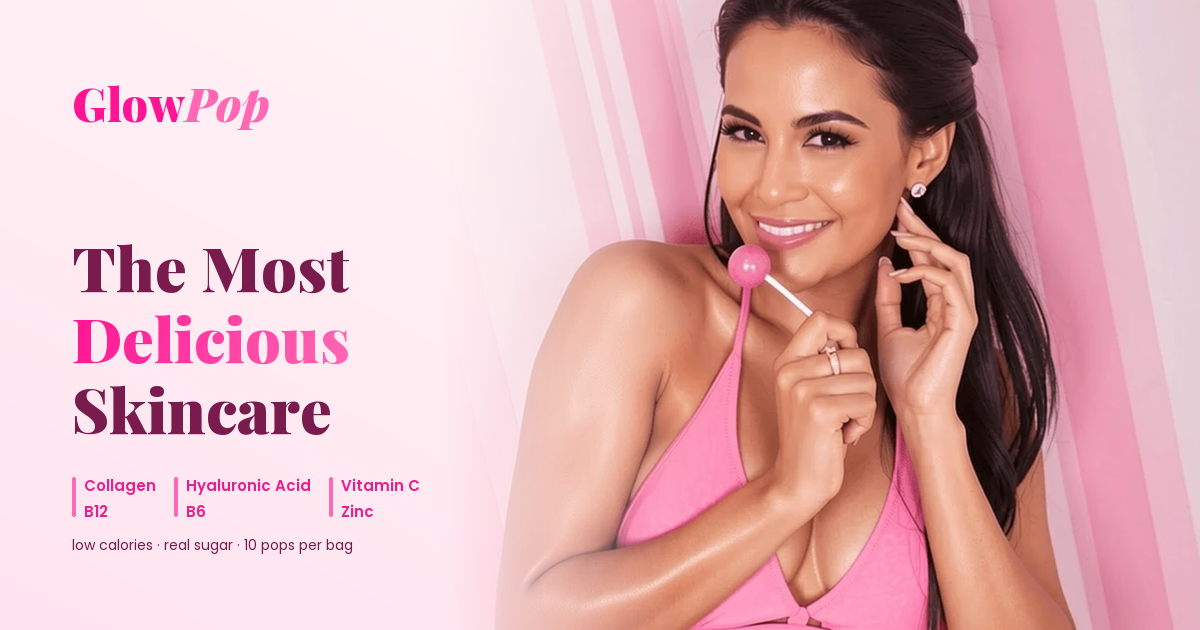
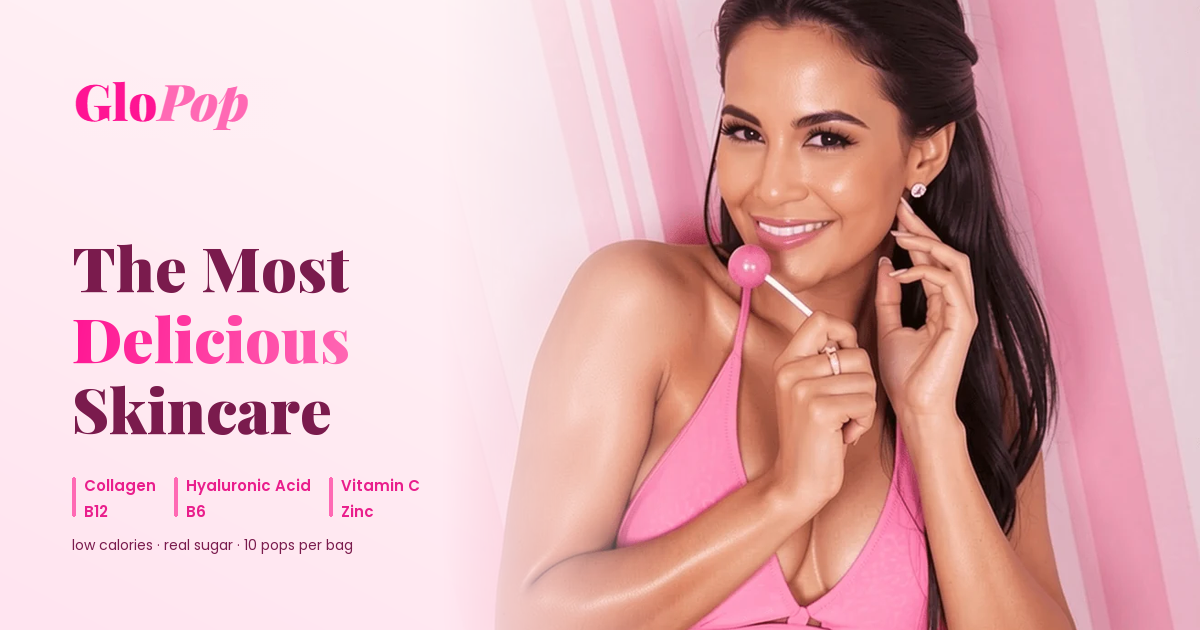
rebrand: glow pop -> glo pop (trademark conflict); regenerate og card + pouch badge

Changed region(s): [[0.0617, 0.1206, 0.2467, 0.2111]]

diff --git a/index.html b/index.html
@@ -3,21 +3,21 @@
 <head>
   <meta charset="UTF-8">
   <meta name="viewport" content="width=device-width, initial-scale=1.0">
-  <title>Glow Pop</title>
+  <title>Glo Pop</title>
   <meta name="description" content="Beauty-boosting peptide lollipops with collagen, hyaluronic acid, Vitamin C, B12, B6 & Zinc. Only 47 calories. Get your summer glow.">
 
   <!-- Social link preview (Open Graph + Twitter) -->
   <meta property="og:type" content="website">
-  <meta property="og:site_name" content="Glow Pop">
-  <meta property="og:title" content="Glow Pop — The Most Delicious Skincare">
+  <meta property="og:site_name" content="Glo Pop">
+  <meta property="og:title" content="Glo Pop — The Most Delicious Skincare">
   <meta property="og:description" content="Peptide lollipops with collagen, hyaluronic acid, Vitamin C, B12, B6 & Zinc. Real sugar, only 47 calories. Get your summer glow.">
   <meta property="og:url" content="https://hmohyud.github.io/glow-pop/">
   <meta property="og:image" content="https://hmohyud.github.io/glow-pop/images/og-card.png">
   <meta property="og:image:width" content="1200">
   <meta property="og:image:height" content="630">
-  <meta property="og:image:alt" content="Glow Pop — The Most Delicious Skincare">
+  <meta property="og:image:alt" content="Glo Pop — The Most Delicious Skincare">
   <meta name="twitter:card" content="summary_large_image">
-  <meta name="twitter:title" content="Glow Pop — The Most Delicious Skincare">
+  <meta name="twitter:title" content="Glo Pop — The Most Delicious Skincare">
   <meta name="twitter:description" content="Peptide lollipops with collagen, hyaluronic acid, Vitamin C, B12, B6 & Zinc. Real sugar, only 47 calories.">
   <meta name="twitter:image" content="https://hmohyud.github.io/glow-pop/images/og-card.png">
   <meta name="theme-color" content="#FF1493">
@@ -41,7 +41,7 @@
       <div class="preloader-candy"></div>
       <div class="preloader-stick"></div>
     </div>
-    <div class="preloader-text">Glow Pop</div>
+    <div class="preloader-text">Glo Pop</div>
   </div>
 
   <!-- ANNOUNCEMENT BAR -->
@@ -64,7 +64,7 @@
 
   <!-- NAVBAR -->
   <nav class="navbar" id="navbar">
-    <a href="#" class="nav-logo">Glow<i>Pop</i></a>
+    <a href="#" class="nav-logo">Glo<i>Pop</i></a>
     <ul class="nav-links" id="navLinks">
       <li><a href="#benefits"><span class="nav-dot"><i data-lucide="sparkles"></i></span><span class="nav-txt">Benefits</span></a></li>
       <li><a href="#ingredients"><span class="nav-dot"><i data-lucide="leaf"></i></span><span class="nav-txt">Ingredients</span></a></li>
@@ -115,7 +115,7 @@
       </div>
       <div class="hero-visual reveal">
         <div class="hero-image-wrapper">
-          <img src="images/model_pink.jpg" alt="Glow Pop lifestyle" width="520" height="780" loading="eager">
+          <img src="images/model_pink.jpg" alt="Glo Pop lifestyle" width="520" height="780" loading="eager">
         </div>
         <div class="hero-float-circle float-1">
           <span>Low</span>
@@ -143,7 +143,7 @@
       <div class="product-image-area">
         <div class="product-image-frame gsap-hidden">
           <div class="product-glow"></div>
-          <img src="images/peptide_lollipops.jpg" alt="Glow Pop Peptide Lollipops packaging" width="600" height="600" loading="lazy">
+          <img src="images/peptide_lollipops.jpg" alt="Glo Pop Peptide Lollipops packaging" width="600" height="600" loading="lazy">
           <span class="sparkle" style="top:11%;right:15%;width:16px;height:16px;animation-delay:0s"></span>
           <span class="sparkle" style="top:17%;right:9%;width:10px;height:10px;animation-delay:.5s;animation-duration:2.6s"></span>
           <span class="sparkle" style="top:24%;right:18%;width:8px;height:8px;animation-delay:1.1s"></span>
@@ -161,7 +161,7 @@
           Beauty You Can <span class="highlight">Taste</span>
         </h2>
         <p class="section-subtitle reveal reveal-delay-2" style="text-align:left;">
-          Every Glow Pop is packed with skin-loving ingredients that work from the inside out.
+          Every Glo Pop is packed with skin-loving ingredients that work from the inside out.
           No pills, no powders &mdash; just a delicious lollipop.
         </p>
         <div class="product-callouts">
@@ -333,11 +333,11 @@
     </div>
   </section>
 
-  <!-- WHY GLOW POP -->
+  <!-- WHY GLO POP -->
   <section class="why-section section-pad">
     <div id="lolly3dMount" aria-hidden="true"></div>
     <div class="section-header">
-      <div class="section-label reveal">Why Glow Pop?</div>
+      <div class="section-label reveal">Why Glo Pop?</div>
       <h2 class="section-title reveal reveal-delay-1">
         Not Just Candy. It's Skincare.
       </h2>
@@ -349,7 +349,7 @@
     <div class="comparison-table reveal reveal-delay-3">
       <div class="comparison-header">
         <span>Feature</span>
-        <span>Glow Pop</span>
+        <span>Glo Pop</span>
         <span>Typical Supplement</span>
       </div>
       <div class="comparison-row">
@@ -409,7 +409,7 @@
           <div class="step-stick"></div>
         </div>
         <h3>Unwrap &amp; Enjoy</h3>
-        <p>Pop open a Glow Pop and savor every delicious lick. Strawberry flavor, made with real sugar.</p>
+        <p>Pop open a Glo Pop and savor every delicious lick. Strawberry flavor, made with real sugar.</p>
       </div>
       <div class="step reveal reveal-delay-2" data-step="2">
         <div class="step-lollipop">
@@ -483,7 +483,7 @@
       </div>
     </div>
 
-    <p class="sugar-footnote reveal">Enjoy one Glow Pop a day as part of a balanced, happy lifestyle &mdash; glowing starts with feeling good about what you eat.</p>
+    <p class="sugar-footnote reveal">Enjoy one Glo Pop a day as part of a balanced, happy lifestyle &mdash; glowing starts with feeling good about what you eat.</p>
   </section>
 
   <!-- STATS -->
@@ -523,12 +523,12 @@
     <div class="faq-container">
       <div class="faq-item reveal">
         <button class="faq-question">
-          What are Glow Pop peptide lollipops?
+          What are Glo Pop peptide lollipops?
           <span class="faq-icon">+</span>
         </button>
         <div class="faq-answer">
           <div class="faq-answer-inner">
-            Glow Pops are beauty-boosting lollipops infused with collagen peptides, hyaluronic acid,
+            Glo Pops are beauty-boosting lollipops infused with collagen peptides, hyaluronic acid,
             Vitamin C, B12, B6, and Zinc. They're designed to support your skin's radiance,
             hydration, and overall glow &mdash; all in a delicious strawberry treat that's only 47 calories.
           </div>
@@ -541,7 +541,7 @@
         </button>
         <div class="faq-answer">
           <div class="faq-answer-inner">
-            We recommend enjoying one Glow Pop per day as part of your daily beauty routine.
+            We recommend enjoying one Glo Pop per day as part of your daily beauty routine.
             Consistency is key &mdash; most girls notice a visible difference in their skin's
             radiance within 2&ndash;4 weeks of daily use.
           </div>
@@ -554,7 +554,7 @@
         </button>
         <div class="faq-answer">
           <div class="faq-answer-inner">
-            Yes! Glow Pops are made with real sugar &mdash; no artificial sweeteners, no sugar
+            Yes! Glo Pops are made with real sugar &mdash; no artificial sweeteners, no sugar
             alcohols, no stevia. Just real, delicious sweetness at only 47 calories per lollipop.
           </div>
         </div>
@@ -579,7 +579,7 @@
         </button>
         <div class="faq-answer">
           <div class="faq-answer-inner">
-            Yes, Glow Pops are gluten-free. We formulate with simple, clean ingredients that
+            Yes, Glo Pops are gluten-free. We formulate with simple, clean ingredients that
             everyone can enjoy. If you have specific dietary concerns or allergies, please check
             the full ingredient list on the product packaging.
           </div>
@@ -598,7 +598,7 @@
     </div>
     <div class="cta-content">
       <div class="cta-image reveal">
-        <img src="images/cta_model.webp" alt="Model enjoying a Glow Pop lollipop" width="832" height="1248" loading="lazy">
+        <img src="images/cta_model.webp" alt="Model enjoying a Glo Pop lollipop" width="832" height="1248" loading="lazy">
       </div>
       <div class="cta-text">
         <div class="section-header">
@@ -607,12 +607,12 @@
             Get Your Summer Glow
           </h2>
           <p class="section-subtitle reveal reveal-delay-2" style="color:var(--pink-200);">
-            Make Glow Pop part of your daily beauty ritual.
+            Make Glo Pop part of your daily beauty ritual.
             Free shipping on every order.
           </p>
         </div>
         <div class="reveal reveal-delay-3">
-          <a href="#" class="btn btn-white">Shop Glow Pops &mdash; Free Shipping</a>
+          <a href="#" class="btn btn-white">Shop Glo Pops &mdash; Free Shipping</a>
           <p class="cta-note">10 lollipops per bag &bull; Only 47 calories each &bull; Made with real sugar</p>
         </div>
       </div>
@@ -623,14 +623,14 @@
   <footer class="footer">
     <div class="footer-grid">
       <div class="footer-brand">
-        <a href="#" class="nav-logo">Glow<i>Pop</i></a>
+        <a href="#" class="nav-logo">Glo<i>Pop</i></a>
         <p>The most delicious skincare. Peptide lollipops with collagen, vitamins,
            and everything your skin craves. Beauty has never tasted this good.</p>
       </div>
       <div>
         <h4>Shop</h4>
         <ul>
-          <li><a href="#">Glow Pops</a></li>
+          <li><a href="#">Glo Pops</a></li>
           <li><a href="#">Bundles</a></li>
           <li><a href="#">Subscribe &amp; Save</a></li>
           <li><a href="#">Gift Cards</a></li>
@@ -656,7 +656,7 @@
       </div>
     </div>
     <div class="footer-bottom">
-      <span>&copy; 2026 Glow Pop. All rights reserved.</span>
+      <span>&copy; 2026 Glo Pop. All rights reserved.</span>
       <div class="footer-social">
         <a href="#" aria-label="Instagram">&#9679;</a>
         <a href="#" aria-label="TikTok">&#9679;</a>

diff --git a/src/lollipop3d.js b/src/lollipop3d.js
@@ -1,4 +1,4 @@
-// Genuine 3D glossy lollipop (WebGL via Three.js) for the "Why Glow Pop" section.
+// Genuine 3D glossy lollipop (WebGL via Three.js) for the "Why Glo Pop" section.
 // Solid pink candy + glistening cool sheen (no stripes), rotating slowly.
 // Sits behind the left of the title/chart as an off-center background accent.
 import * as THREE from 'three';
@@ -45,7 +45,7 @@ async function init(mount) {
   const candy = new THREE.Mesh(
     new THREE.SphereGeometry(1.33, 96, 96),
     new THREE.MeshPhysicalMaterial({
-      color: 0xff2b95,                       // solid Glow-Pop pink
+      color: 0xff2b95,                       // solid Glo-Pop pink
       roughness: 0.16,
       metalness: 0.0,
       clearcoat: 1.0,
